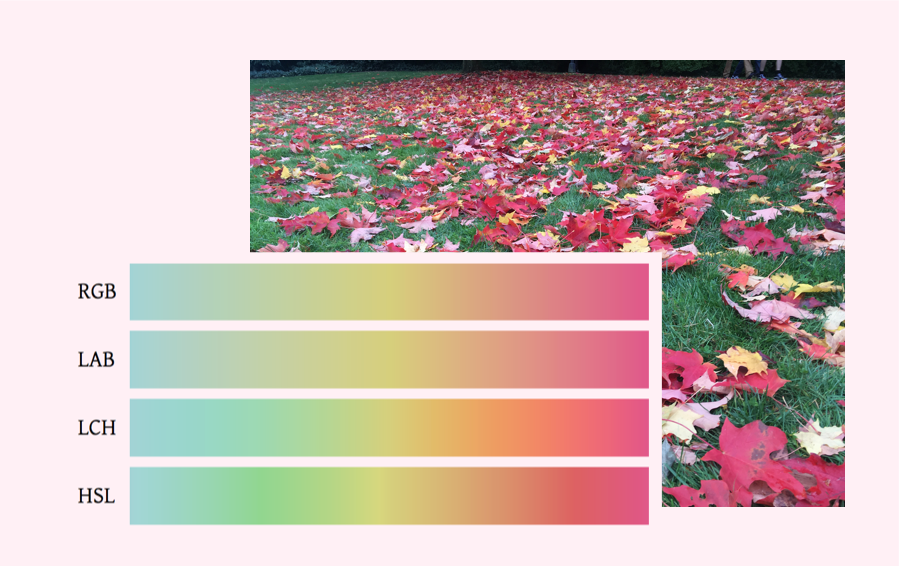
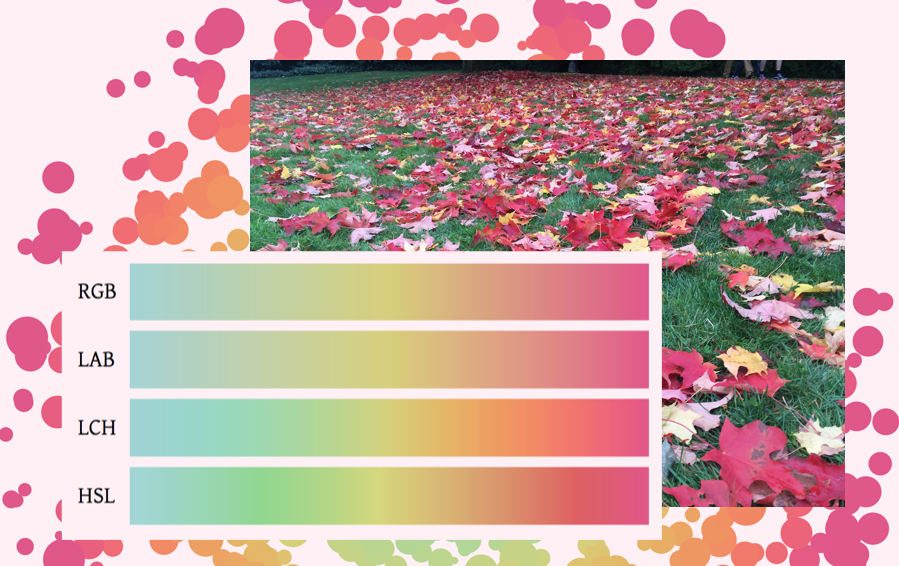
Updates

diff --git a/fall-colors/index.html b/fall-colors/index.html
@@ -7,6 +7,11 @@
       </title>
       <meta property="og:title" content="Autumnal Colors">
     <meta charset="utf-8">
+      <meta property="og:image" content="https:&#x2F;&#x2F;cdn.rawgit.com&#x2F;mathisonian&#x2F;idyll&#x2F;gh-pages&#x2F;fall-colors&#x2F;images&#x2F;share.png">
+      <meta name="twitter:image:src" content="https:&#x2F;&#x2F;cdn.rawgit.com&#x2F;mathisonian&#x2F;idyll&#x2F;gh-pages&#x2F;fall-colors&#x2F;images&#x2F;share.png">
+      <meta name="twitter:card" content="summary_large_image">
+      <meta property="og:image:width" content="899">
+      <meta property="og:image:width" content="566">
     <meta property="og:type" content="article">
 
       <meta property="og:description" content="A guide to custom color maps with chroma.js">
